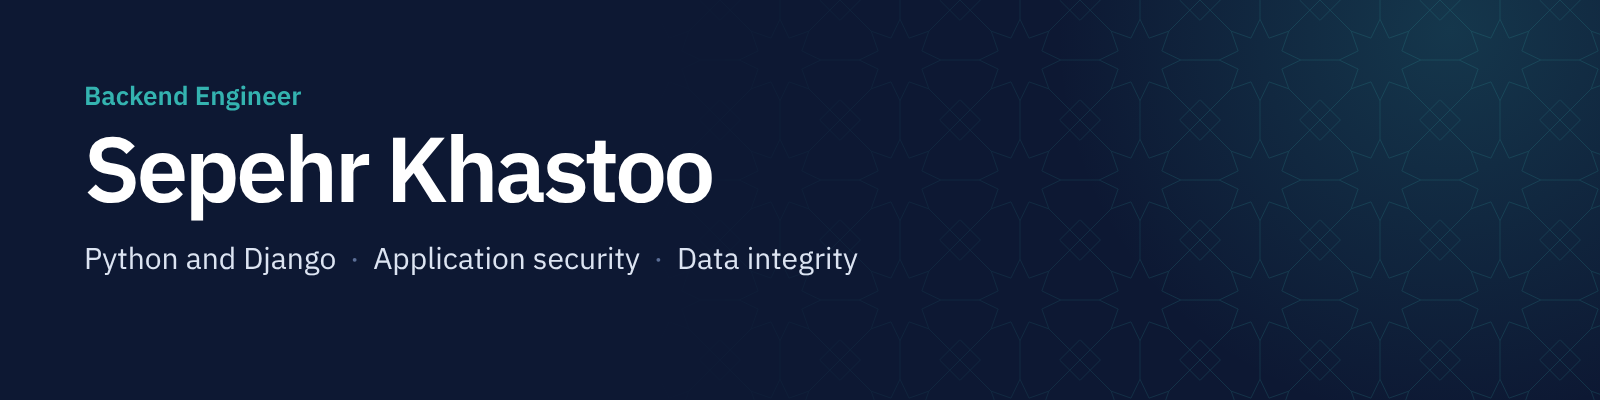
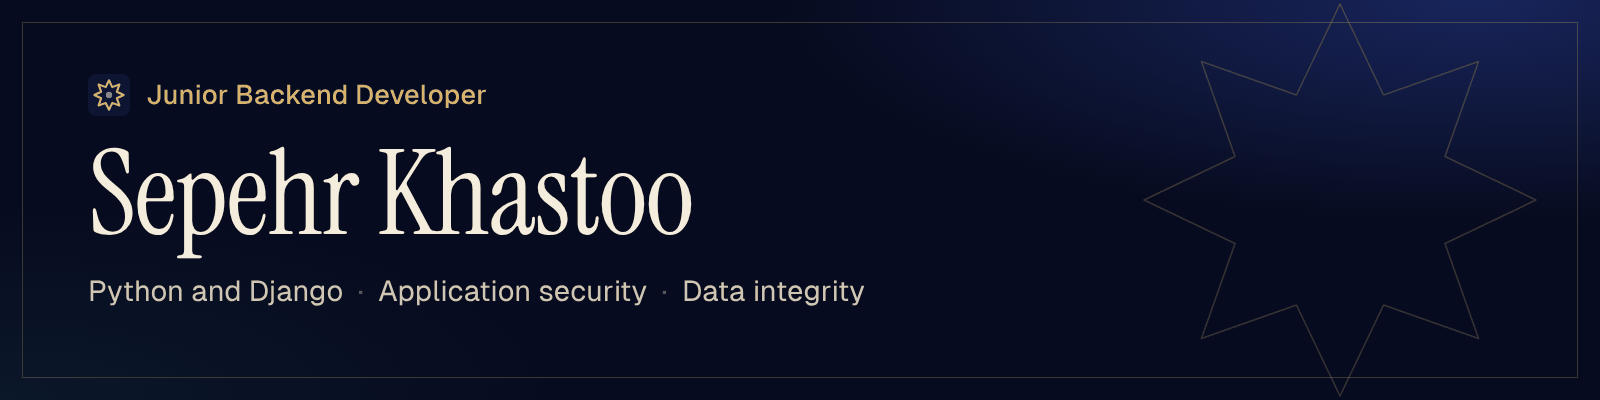
Profile README matches the new site

diff --git a/README.md b/README.md
@@ -1,22 +1,22 @@
-<img src="assets/banner.png" alt="Sepehr Khastoo, Backend Engineer. Python and Django, application security, data integrity." width="100%">
+<img src="assets/banner.png" alt="Sepehr Khastoo, Junior Backend Developer. Python and Django, application security, data integrity." width="100%">
 
-Backend engineer working in Python and Django, mostly on application security and data integrity. Computer engineering student in Tehran, open to backend roles and internships, remote or on-site.
+Junior backend developer working in Python and Django, with a focus on application security and data integrity. Computer engineering student in Tehran, open to junior backend roles and internships, remote or on-site.
 
-[Portfolio](https://sepehrkhasto.github.io) · [فارسی](https://sepehrkhasto.github.io/fa/) · [LinkedIn](https://linkedin.com/in/sepehrkhasto) · [Email](mailto:sepehrkhasto.private@gmail.com)
+[Portfolio](https://sepehrkhasto.github.io) · [فارسی](https://sepehrkhasto.github.io/fa/) · [Resume (PDF)](https://sepehrkhasto.github.io/resume/Sepehr_Khastoo_Resume_EN.pdf) · [LinkedIn](https://linkedin.com/in/sepehrkhasto) · [Email](mailto:sepehrkhasto.private@gmail.com)
 
 ## Projects
 
 **[Aegis Planner, web](https://github.com/sepehrkhasto/aegis-zk-planner)** · Django, Web Crypto API · v7.1.0  
-A zero-knowledge planner. The vault is encrypted in the browser with AES-256-GCM under a random data key, and that key is wrapped with a PBKDF2-SHA256 key derived from the password, so the server stores only the salt, the wrapped key and the ciphertext. Revision-checked saves, a strict CSP, Argon2, rate limiting and lockout. 146 Django tests and 556 JavaScript checks run in GitHub Actions.
+A zero-knowledge planner: the server only ever stores ciphertext. In the browser, PBKDF2-SHA256 with 600,000 iterations turns the master password into a key that wraps a random data key, and the data key encrypts the vault with AES-256-GCM. Saves carry a revision number, so a stale write from a second device gets HTTP 409 instead of overwriting newer data. Strict CSP, Argon2, rate limiting and lockout. 146 Django tests and 556 JavaScript checks run in GitHub Actions.
 
 **[Aegis Planner, desktop](https://github.com/sepehrkhasto/aegis-planner)** · Python, PyQt6 · v2.11.10  
-An offline, encrypted planner for Windows, in Persian with a Jalali calendar. Atomic writes, encrypted backups, and installers built from tagged source with published SHA-256 checksums. 971 pytest tests.
+An offline, encrypted planner for Windows, in Persian with a Jalali calendar. Crash-safe atomic writes, encrypted backups with verify and restore, and installers built from tagged source with published SHA-256 checksums. 971 pytest tests.
 
-**[Refinery Risk Monitor](https://github.com/sepehrkhasto/refinery-risk-monitor)** · FastAPI, SQLAlchemy, WebSocket  
-Live risk scoring, P10/P50/P90 forecasts and anomaly detection for refinery process units, with JWT role-based access and a live simulator with fault injection. I led the four-person team; the project placed in the top three of the course.
+**[Refinery Risk Monitor](https://github.com/sepehrkhasto/refinery-risk-monitor)** · FastAPI, SQLAlchemy, WebSocket · team of four  
+Live risk scoring, P10/P50/P90 forecasts and anomaly detection for refinery process units. I led the project and set the architecture and the ML pipeline design; I directed the backend, which I built with AI coding tools and reviewed: JWT role-based access per endpoint, and a service that refuses to start in production with a default key or open CORS. Placed in the top three of the course.
 
 **[Andarun](https://github.com/sepehrkhasto/andarun)** · Django · in development  
-An invite-only, text-only social network designed to keep working through internet shutdowns. So far: a custom user model with username login, strict usernames and settings that fail closed. Next: invite-only sign-up, approved by the member who sent the invitation.
+A text-only, invite-only social network designed to run on a domestic network when international internet access is cut, so it has no email and no outside services. So far: a custom user model with username login, strict usernames, and settings that fail closed. Next: invite-only sign-up, approved by the member who sent the invitation.
 
 ## Currently
 
@@ -24,7 +24,8 @@ Building Andarun v1, starting with accounts and invitations, and learning Django
 
 ## Stack
 
-**Core:** Python, Django, SQL, PostgreSQL, MySQL, SQLite, Git  
-**Working knowledge:** Docker, Linux, ORM query optimization, transactions and row-level locking, networking fundamentals  
+**Core:** Python, SQL, Django, PostgreSQL, MySQL, SQLite, Git and GitHub  
+**Working knowledge:** class-based views, authentication and permissions, ORM query optimization, transactions and row-level locking, testing with Django TestCase, Docker, Linux, networking fundamentals  
 **Also used:** FastAPI, SQLAlchemy, Alembic, WebSocket, Web Crypto API, PyQt6, GitHub Actions  
-**Learning:** Django REST Framework, testing with Django TestCase
+**Learning:** Django REST Framework  
+**Languages:** Persian (native), English (B1)
